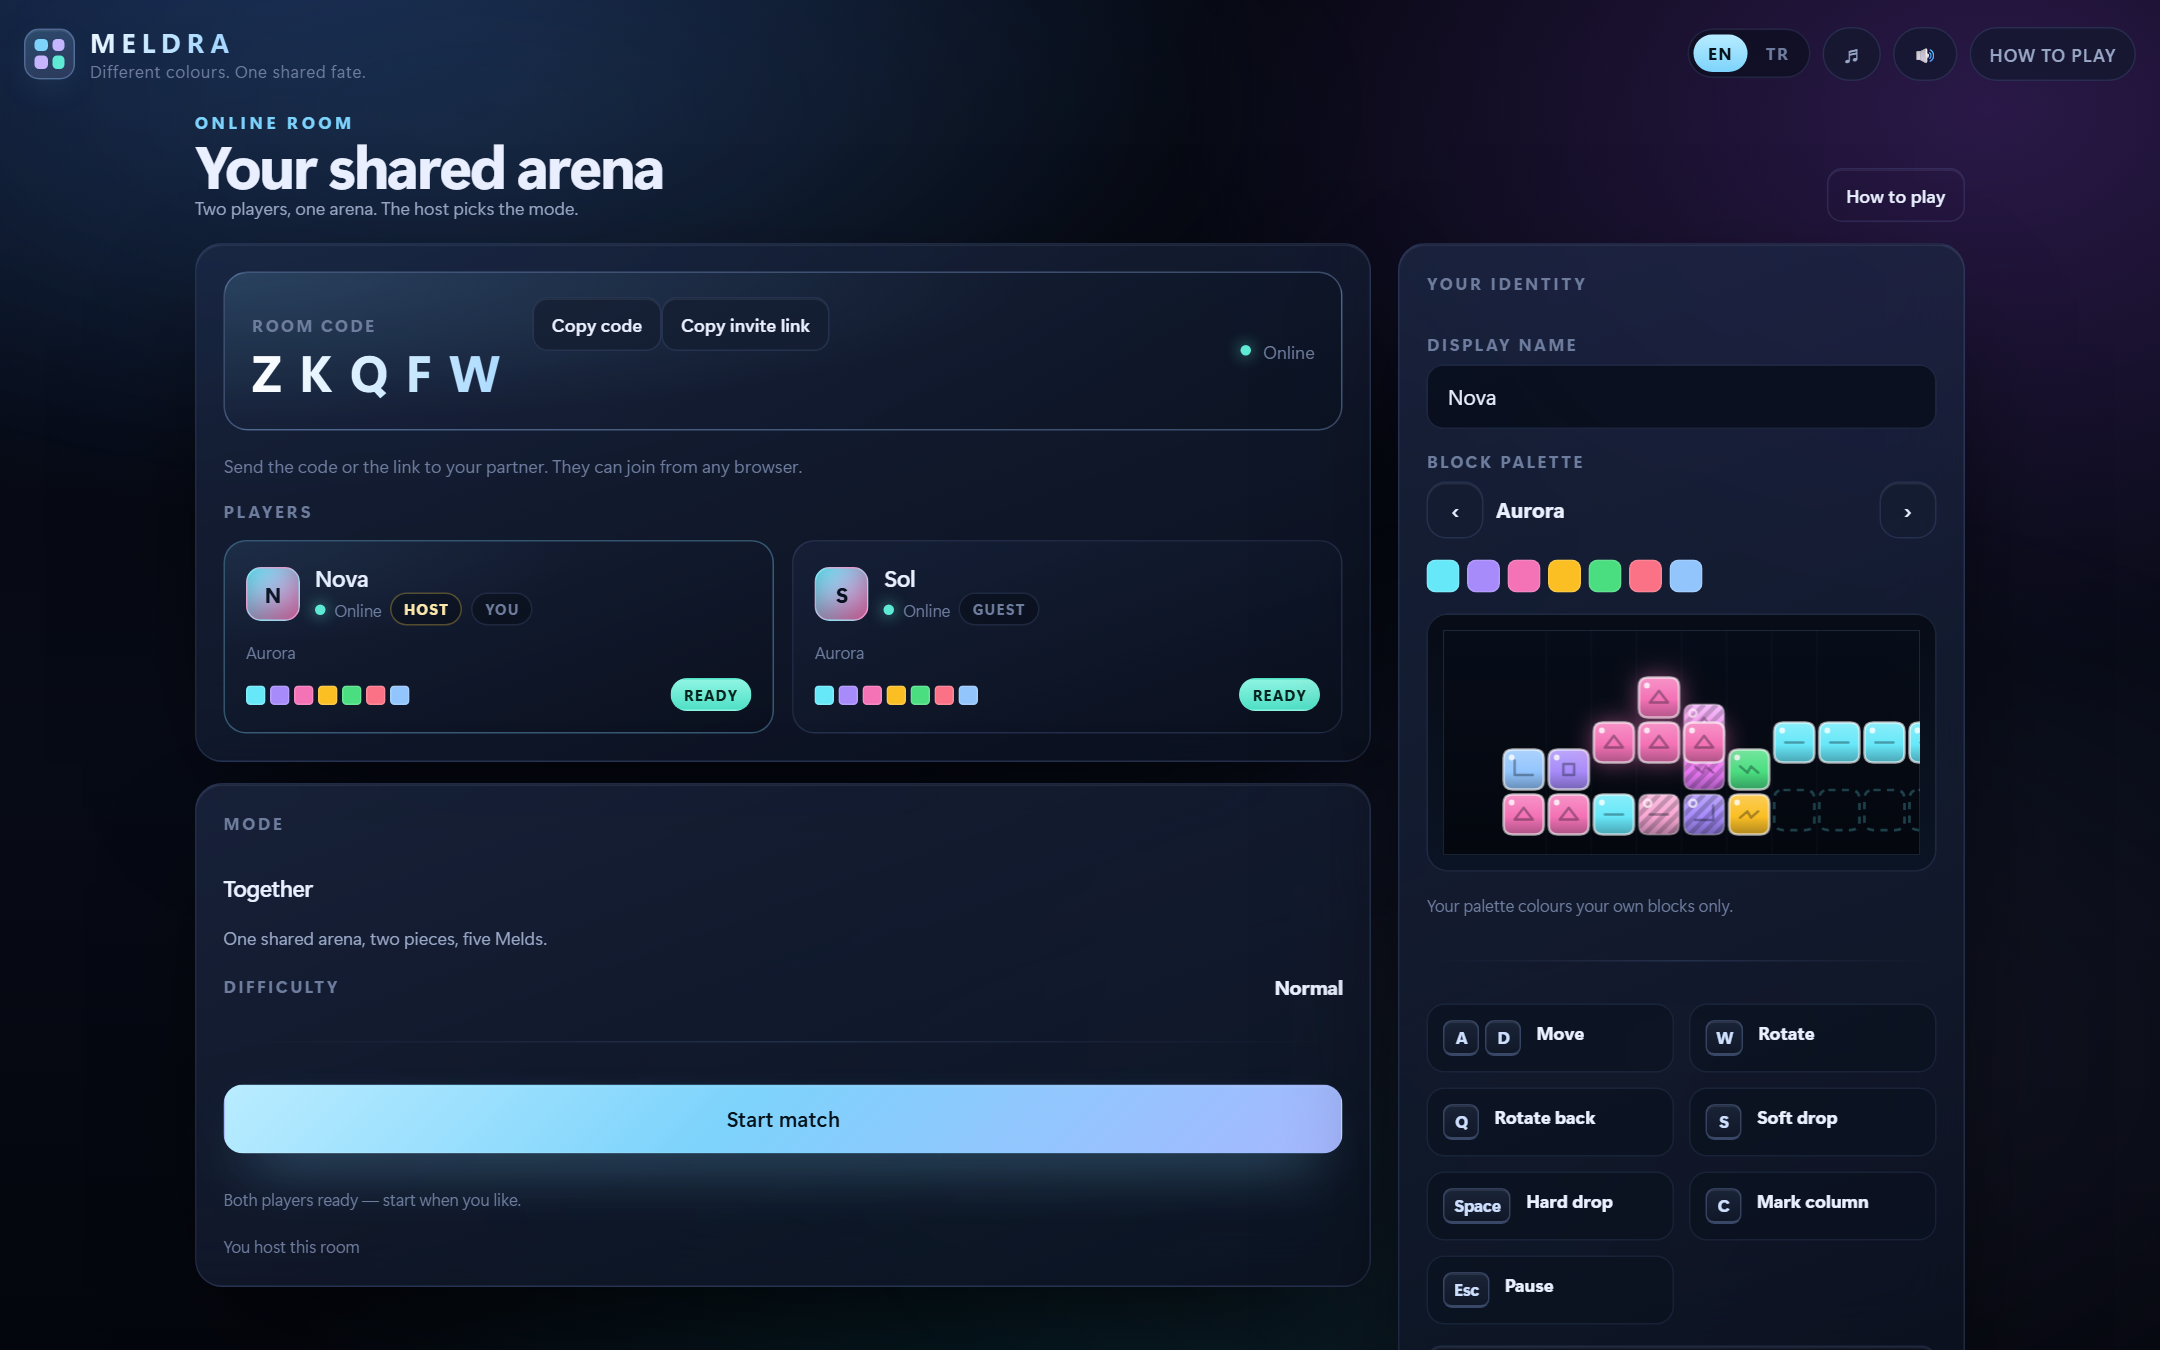
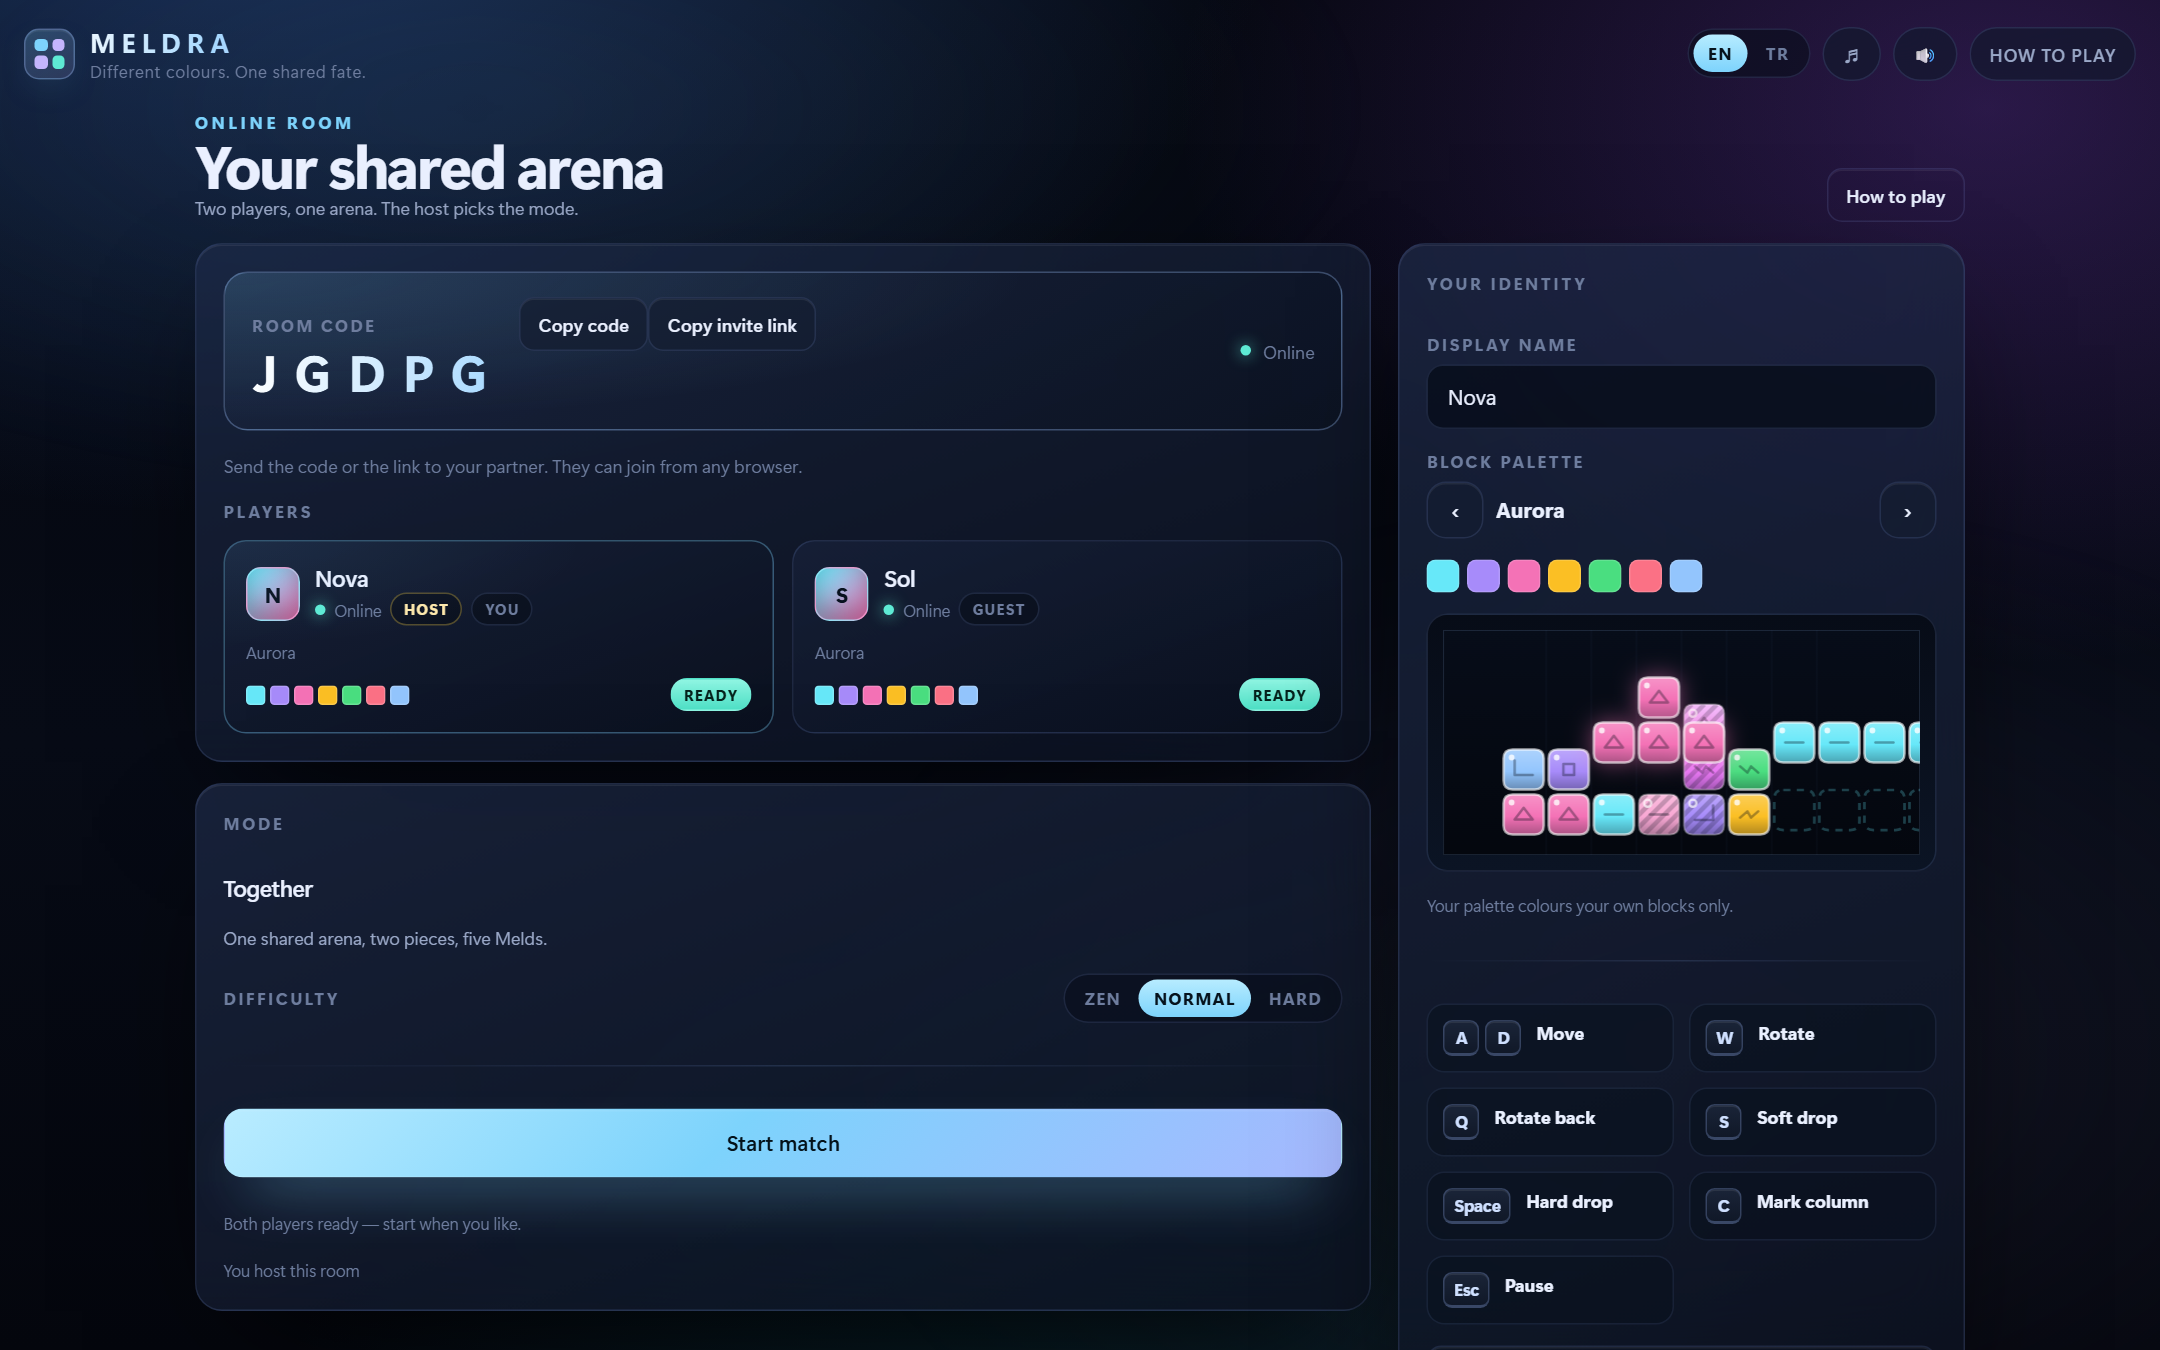
Let the host set the pace after picking a mode
The lobby now carries the same difficulty control, so a host can pick a mode
first and still adjust its pace before starting. Guests see the inherited value
but cannot change it, keeping one authority for the shared engine.

🤖 Generated with Codebuff

diff --git a/src/client/views/lobby.ts b/src/client/views/lobby.ts
@@ -7,7 +7,7 @@ import { drawPalettePreview } from '../render.js';
 import { difficultyKey } from '../view.js';
 import { controlGuide, copyText, el, isCoarsePointer, pill, toast } from '../ui.js';
 import type { LobbyPlayer } from '../../shared/protocol.js';
-import type { GameMode } from '../../shared/types.js';
+import { DIFFICULTIES, type Difficulty, type GameMode } from '../../shared/types.js';
 import { sfx } from '../audio.js';
 
 function modeInfo(mode: GameMode): { label: 'lobby.modeTogether' | 'lobby.modeVersus' | 'lobby.modeRelay' | 'lobby.modeRift'; desc: 'lobby.modeTogetherDesc' | 'lobby.modeVersusDesc' | 'lobby.modeRelayDesc' | 'lobby.modeRiftDesc' } {
@@ -182,6 +182,30 @@ export function renderLobby(api: AppApi, room: BaseRoom): { node: HTMLElement; d
         : t('lobby.startHint');
 
     const info = modeInfo(room.mode);
+    const paceValue = el('span', { class: 'pace-value', text: t(difficultyKey(room.difficulty)) });
+    const paceControl = isHost
+      ? el(
+          'div',
+          { class: 'seg', attrs: { role: 'group', 'aria-label': t('lobby.difficulty') } },
+          ...DIFFICULTIES.map((difficulty: Difficulty) =>
+            el('button', {
+              attrs: {
+                type: 'button',
+                'data-lobby-difficulty': difficulty,
+                'aria-pressed': String(room.difficulty === difficulty),
+              },
+              text: t(difficultyKey(difficulty)),
+              on: {
+                click: () => {
+                  api.updateSettings({ difficulty });
+                  room.setDifficulty(difficulty);
+                  sfx.ui();
+                },
+              },
+            }),
+          ),
+        )
+      : paceValue;
     const children: HTMLElement[] = [
       el(
         'div',
@@ -194,7 +218,7 @@ export function renderLobby(api: AppApi, room: BaseRoom): { node: HTMLElement; d
         'div',
         { class: 'pace-row' },
         el('span', { class: 'field-label', text: t('lobby.difficulty') }),
-        el('span', { class: 'pace-value', text: t(difficultyKey(room.difficulty)) }),
+        paceControl,
       ),
       el('div', { class: 'divider' }),
     ];
@@ -239,6 +263,7 @@ export function renderLobby(api: AppApi, room: BaseRoom): { node: HTMLElement; d
       status: room.status,
       self: room.selfId,
       role: room.role,
+      difficulty: room.difficulty,
     });
     if (!force && signature === lastSignature) return;
     lastSignature = signature;

diff --git a/e2e/modes.spec.ts b/e2e/modes.spec.ts
@@ -180,21 +180,26 @@ test('difficulty is picked on the menu and inherited by the guest', async ({ bro
   await expect(host.locator('[data-difficulty="zen"]')).toHaveAttribute('aria-pressed', 'true');
   await host.getByLabel('Display name').fill('Slow');
   await host.locator('[data-mode="coop"]').click();
-  await expect(host.locator('.pace-row .pace-value')).toHaveText('Zen');
+  await expect(host.locator('[data-lobby-difficulty="zen"]')).toHaveAttribute('aria-pressed', 'true');
   const code = (await host.locator('.room-code .code').textContent())?.trim() ?? '';
+
+  // The host can still change the pace in the lobby; the guest only sees it.
+  await host.locator('[data-lobby-difficulty="hard"]').click();
+  await expect(host.locator('[data-lobby-difficulty="hard"]')).toHaveAttribute('aria-pressed', 'true');
 
   await guest.goto('/');
   await guest.getByLabel('Display name').fill('Steady');
   await guest.getByLabel('Join a room').fill(code);
   await guest.getByRole('button', { name: 'Join', exact: true }).click();
-  await expect(guest.locator('.pace-row .pace-value')).toHaveText('Zen');
+  await expect(guest.locator('.pace-row .pace-value')).toHaveText('Hard');
+  await expect(guest.locator('[data-lobby-difficulty]')).toHaveCount(0);
 
   await guest.getByRole('button', { name: 'I’m ready' }).click();
   await host.getByRole('button', { name: 'Start match' }).click();
   await waitingForPlaying(host);
   await waitingForPlaying(guest);
-  await expect(host.locator('.stat', { hasText: 'Pace' }).locator('.v')).toHaveText('Zen');
-  await expect(guest.locator('.stat', { hasText: 'Pace' }).locator('.v')).toHaveText('Zen');
+  await expect(host.locator('.stat', { hasText: 'Pace' }).locator('.v')).toHaveText('Hard');
+  await expect(guest.locator('.stat', { hasText: 'Pace' }).locator('.v')).toHaveText('Hard');
 
   await hostContext.close();
   await guestContext.close();

diff --git a/CHANGELOG.md b/CHANGELOG.md
@@ -13,9 +13,10 @@ and carried into both solo runs and online rooms.
 - **Difficulty selection:** a persisted Zen/Normal/Hard control on the main menu. Zen falls at
   1200 ms and only ramps to 380 ms, Normal keeps the original 850 → 150 ms curve, and Hard opens at
   320 ms and bottoms out at 110 ms. The pace applies to every mode and is remembered between visits.
-- **Online inheritance:** the host's pace travels in the welcome and lobby messages, appears in the
-  lobby's mode panel, and is used by the host's engine. Guests see the same pace in the lobby and in
-  the game HUD; protocol version is now 2 so a stale build cannot join with a different ruleset.
+- **Online inheritance:** the host can change the pace in the lobby before starting. It travels in
+  the welcome and lobby messages, is shown to both players, and is used by the host's engine. Guests
+  see the same pace in the lobby and the game HUD; protocol version is now 2 so a stale build cannot
+  join with a different ruleset.
 - **HUD and guide:** a Pace stat in the arena and a "Choose your pace" guide section in both
   languages.
 

diff --git a/README.md b/README.md
@@ -50,8 +50,9 @@ A single **Difficulty** control on the menu sets the pace for whatever you play 
 | **Normal** | 850 ms | 150 ms | The original designed pace. |
 | **Hard** | 320 ms | 110 ms | Fast from the first piece. |
 
-The choice is saved with the other preferences. In a room, the host's pace is shown in the lobby
-and used by the shared engine; the guest inherits it and sees the same value in the arena HUD.
+The choice is saved with the other preferences. In a room, the host can change the pace in the
+lobby before starting; it is shown to both players and used by the shared engine. The guest
+inherits it and sees the same value in the arena HUD.
 
 ### What makes Meldra different
 
